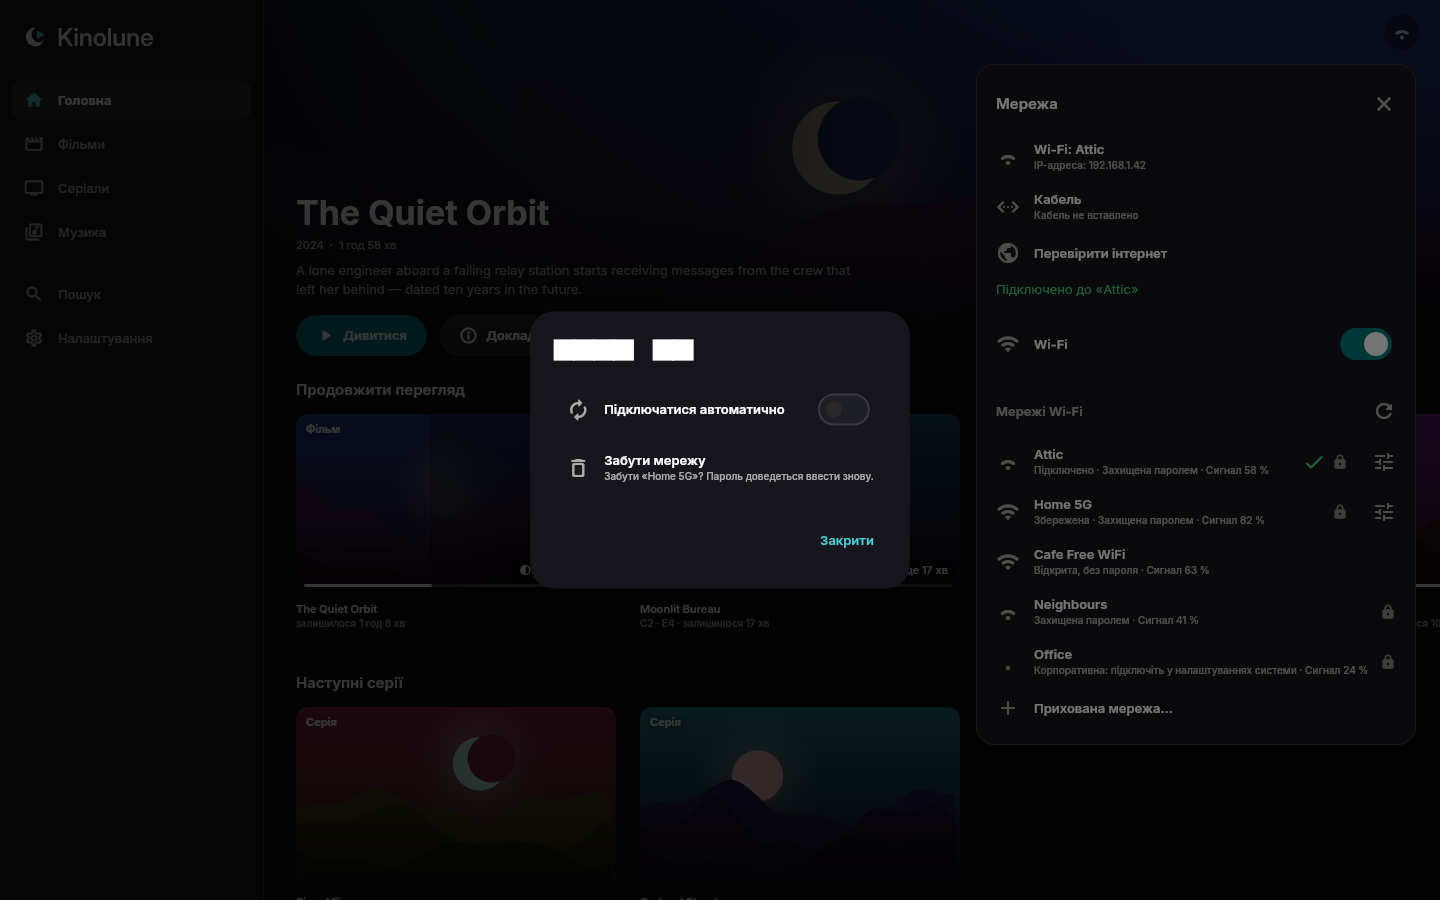
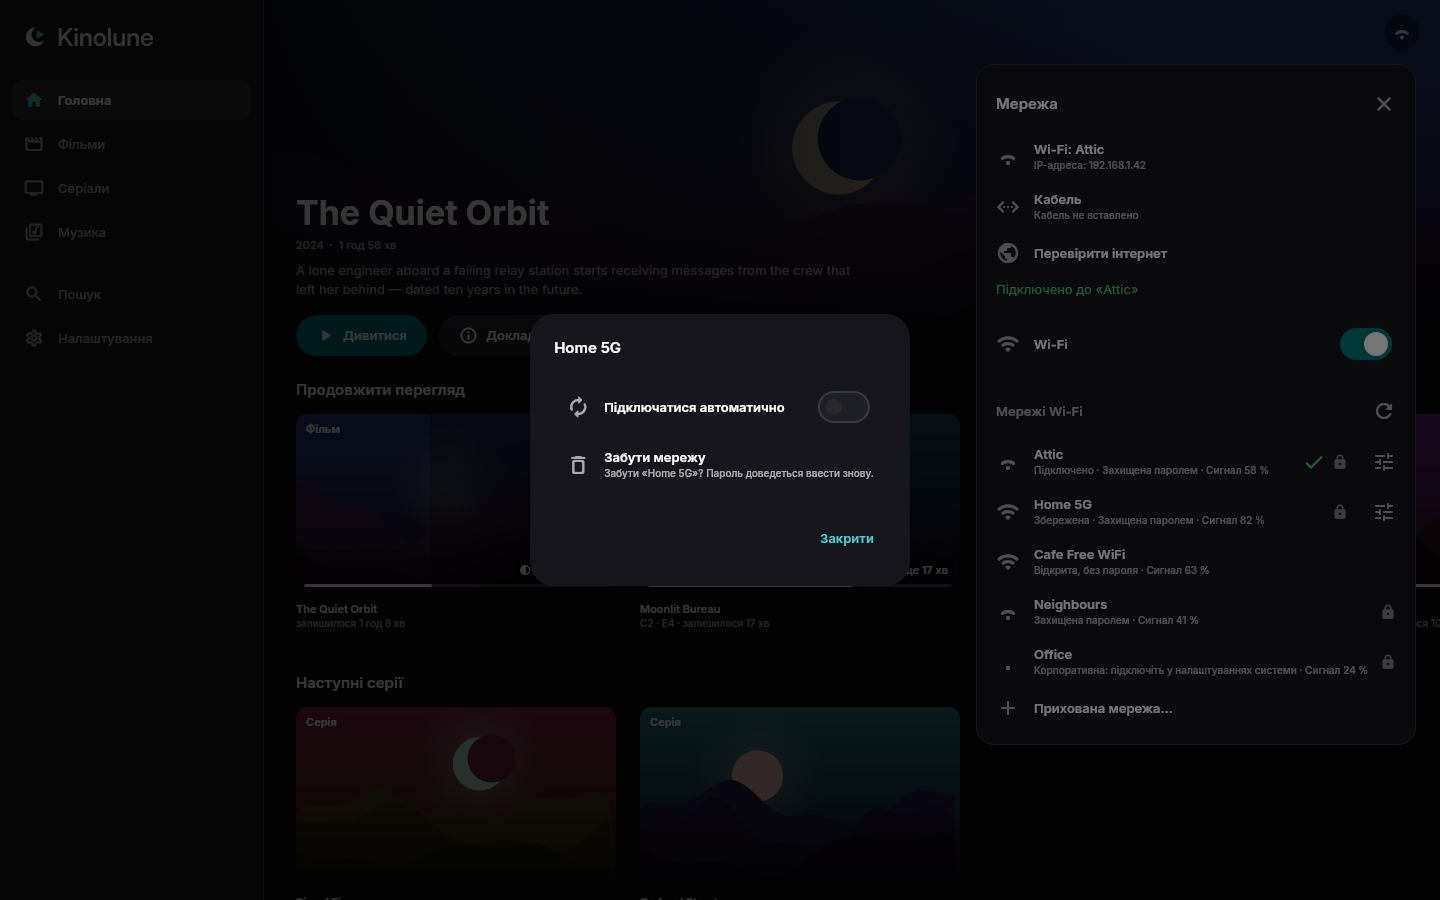
docs(dist): refresh Wi-Fi panel screenshots [DIST-032]

diff --git a/clients/flutter/app/lib/network/network_panel.dart b/clients/flutter/app/lib/network/network_panel.dart
@@ -802,10 +802,7 @@ class _DetailsDialog extends StatelessWidget {
             .firstOrNull;
         final auto = n?.autoconnect ?? true;
         return AlertDialog(
-          title: Text(
-        ssid,
-        style: Theme.of(context).textTheme.titleLarge,
-      ),
+          title: Text(ssid, style: Theme.of(context).textTheme.titleLarge),
           content: Column(
             mainAxisSize: MainAxisSize.min,
             crossAxisAlignment: CrossAxisAlignment.stretch,
